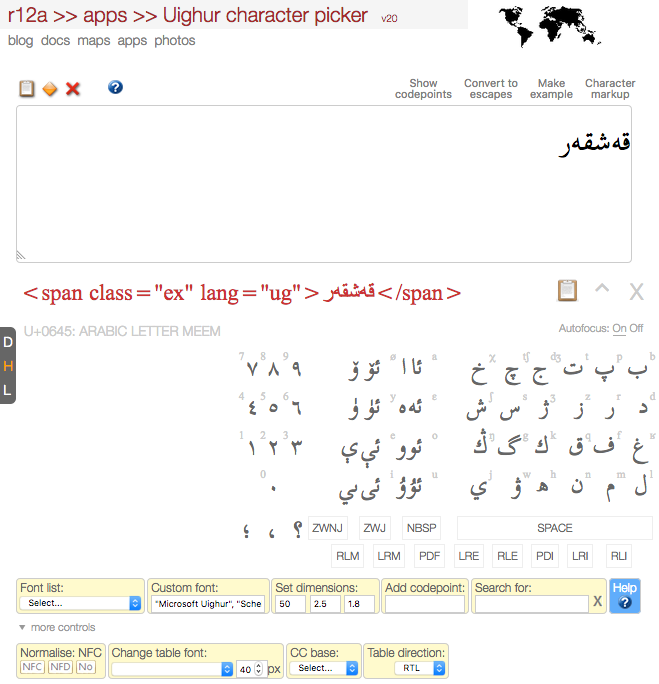
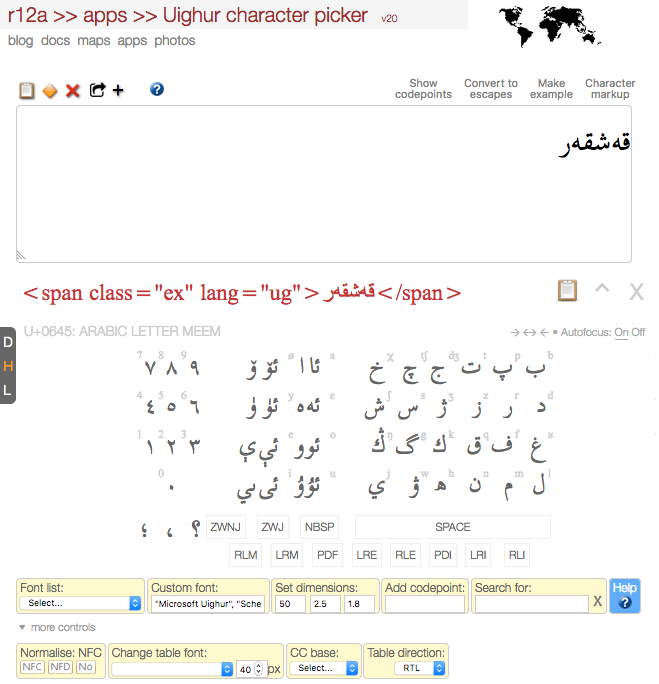
uighur, add ALM; restyle space etc; add base direction switch; add url generator; change example text; add del touches; centre selection area

diff --git a/uighur/index.html b/uighur/index.html
@@ -35,7 +35,8 @@
   <button title="Copy to clipboard (doesn't work on Safari)." onclick="copyToClipboard()">📋</button>
   <button title="Select all the text." onclick="selectAll()">🔶</button>
   <button title="Delete all the text." onclick="deleteAll()">❌</button>
-   <button title="Add sample text." style="font-size: 150%;" onclick="add('ئۇيغۇر تىلى')">+</button>
+  <button title="Generate a URL including text." onclick="makeSharingLink()"><img height="19px" style="margin-left: 3px;" src="../images/share.png"/></button>
+   <button title="Add sample text." style="font-size: 150%;" onclick="add('2. ھەممە ئادەم ھەرقانداق دۆلەتتىن كېتىشكە، جوملىدىن ئۆز دۆلىتىدىن كېتىشكە ھوقۇقلۇق ھەمدە ئۆزىنىڭ دۆلىتىگە قايتىپ كېلىشكە ھوقۇقلۇق.')">+</button>
   <button title="How to use this picker." onClick="help = window.open('help', 'help'); help.focus();"><img alt="help" src="../shared20/help.png"/></button>
   </span>
   
@@ -67,12 +68,19 @@
 </div>
 
 
-<div id="autofocusswitch">Autofocus: 
+
+<div id="autofocusswitch">
+<span title="Set base direction to LTR." onclick="document.getElementById('output').dir='ltr'" class="setDir">→&#xFE0E;</span>
+<span title="Set base direction to Auto." onclick="document.getElementById('output').dir='auto'" class="setDir">↔&#xFE0E;</span> 
+<span title="Set base direction to RTL." onclick="document.getElementById('output').dir='rtl'" class="setDir">←&#xFE0E;</span> 
+ &bull; 
+Autofocus: 
 	<span id="afon" class="on" 
     onclick="switchAutofocus('on')">On</span> 
     <span id="afoff" class="off" 
     onclick="switchAutofocus('off')">Off</span>
     </div>
+
 
 
 <div style="position:relative;">
@@ -134,11 +142,10 @@
 
 
 
-<div id="tables">
+<div id="tables" dir="rtl">
   
   <!-- SHAPE -->
-  <div id="alphabet" class="default"
-dir="rtl"  style="font-family: 'Saysettha OT', 'Lao Sangam MN', Dokchampa, Dhyana, 'Noto Sans Lao', sans-serif; font-size: 32px;">
+  <div id="alphabet" class="default">
     <table id="kbd">
       <tr>
         <td><table id="consonants">
@@ -269,33 +276,24 @@ dir="rtl"  style="font-family: 'Saysettha OT', 'Lao Sangam MN', Dokchampa, Dhyan
               <td>&nbsp;</td></tr>
             </tbody></table>
         </td>
+        <td rowspan="2" id="controlchars" style="padding: 0 10px; text-align:center;"><p><span class="touch" style="margin: 0; padding: 30px 40px;" dir="auto" onClick="add(' ');">SPACE</span></p>
+          <p><span class="touch" dir="auto" onClick="add('\u200D');">ZWJ</span> <span class="touch" dir="auto" onClick="add('\u200C');">ZWNJ</span></p>
+          <p><span class="touch" dir="auto" onClick="add('\u2067');">RLI</span> <span class="touch" dir="auto" onClick="add('\u2066');">LRI</span> <span class="touch" dir="auto" onClick="add('\u2069');">PDI</span></p>
+          <p><span class="touch" dir="auto" onClick="add('\u202B');">RLE</span> <span class="touch"  dir="auto" onClick="add('\202A');">LRE</span> <span class="touch" dir="auto" onClick="add('\u202C');">PDF</span></p>
+          <p><span class="touch" dir="auto" onClick="add('\u200E');">LRM</span> <span class="touch" dir="auto" onClick="add('\u200F');">RLM</span> <span class="touch" dir="auto" onClick="add('\u061C');">ALM</span></p>
+          <p><span class="touch" title="Delete All" style="padding: 5px 20px;" dir="auto" onClick="del();">DEL</span> <span class="touch delAll" style="margin-right: 20px; margin-left:20px;" dir="auto" onClick="deleteAll();">❌</span></p></td>
       </tr>
       <tr>
-        <td colspan="2" style="text-align:center;">
-        <span style="margin: 5px; border: 1px solid #eee; font-family: 'helvetica neue', roboto, calibri, helvetica, sans-serif; font-size: 14px; padding: 5px 100px; text-align: center; text-transform: uppercase; vertical-align:middle; display: inline;" dir=auto onClick="add(' ');">SPACE</span>
-        <span style="margin: 5px; border: 1px solid #eee; font-family: 'helvetica neue', roboto, calibri, helvetica, sans-serif; font-size: 14px; padding: 5px; text-align: center; text-transform: uppercase; vertical-align:middle; display: inline;" dir=auto onClick="add('\u00A0');">NBSP</span>
-        <span style="margin-left: 5px; border: 1px solid #eee; font-family: 'helvetica neue', roboto, calibri, helvetica, sans-serif; font-size: 14px; padding: 5px; text-align: center; text-transform: uppercase; vertical-align:middle; display: inline;" dir=auto onClick="add('\u200D');">ZWJ</span>
-        <span style="margin-left: 2px; border: 1px solid #eee; font-family: 'helvetica neue', roboto, calibri, helvetica, sans-serif; font-size: 14px; padding: 5px; text-align: center; text-transform: uppercase; vertical-align:middle; display: inline;" dir=auto onClick="add('\u200C');">ZWNJ</span>
-        <br/>
-        <span style="margin-left: 5px; border: 1px solid #eee; font-family: 'helvetica neue', roboto, calibri, helvetica, sans-serif; font-size: 14px; padding: 5px; text-align: center; text-transform: uppercase; vertical-align:middle; display: inline;" dir=auto onClick="add('\u2067');">RLI</span>
-        <span style="margin-right: 2px; border: 1px solid #eee; font-family: 'helvetica neue', roboto, calibri, helvetica, sans-serif; font-size: 14px; padding: 5px; text-align: center; text-transform: uppercase; vertical-align:middle; display: inline;" dir=auto onClick="add('\u2066');">LRI</span>
-        <span style="margin-right: 2px; border: 1px solid #eee; font-family: 'helvetica neue', roboto, calibri, helvetica, sans-serif; font-size: 14px; padding: 5px; text-align: center; text-transform: uppercase; vertical-align:middle; display: inline;" dir=auto onClick="add('\u2069');">PDI</span>
-        <span style="margin-right: 2px; border: 1px solid #eee; font-family: 'helvetica neue', roboto, calibri, helvetica, sans-serif; font-size: 14px; padding: 5px; text-align: center; text-transform: uppercase; vertical-align:middle; display: inline;" dir=auto onClick="add('\u202B');">RLE</span>
-        <span style="margin-right: 2px; border: 1px solid #eee; font-family: 'helvetica neue', roboto, calibri, helvetica, sans-serif; font-size: 14px; padding: 5px; text-align: center; text-transform: uppercase; vertical-align:middle; display: inline;" dir=auto onClick="add('\u202A');">LRE</span>
-        <span style="margin-right: 2px; border: 1px solid #eee; font-family: 'helvetica neue', roboto, calibri, helvetica, sans-serif; font-size: 14px; padding: 5px; text-align: center; text-transform: uppercase; vertical-align:middle; display: inline;" dir=auto onClick="add('\u202C');">PDF</span>
-        <span style="margin-right: 2px; border: 1px solid #eee; font-family: 'helvetica neue', roboto, calibri, helvetica, sans-serif; font-size: 14px; padding: 5px; text-align: center; text-transform: uppercase; vertical-align:middle; display: inline;" dir=auto onClick="add('\u200E');">LRM</span>
-        <span style="margin-right: 2px; border: 1px solid #eee; font-family: 'helvetica neue', roboto, calibri, helvetica, sans-serif; font-size: 14px; padding: 5px; text-align: center; text-transform: uppercase; vertical-align:middle; display: inline;" dir=auto onClick="add('\u200F');">RLM</span>
-        </td>
-        <td>
-        <table id=punctuation><tbody>
-        <tr>
-        <td><span class=c>&#x61F;</span></td>
-        <td><span class=c>&#x60C;</span></td>
-        <td><span class=c>&#x61B;</span></td>
-        </tr>
-        </tbody></table>
-        
-        </td>
+        <td colspan="2" style="text-align:center;"><table id=punctuation>
+          <tbody>
+            <tr>
+              <td><span class=c>&#x61F;</span></td>
+              <td><span class=c>&#x60C;</span></td>
+              <td><span class=c>&#x61B;</span></td>
+            </tr>
+          </tbody>
+        </table></td>
+        <td>&nbsp;</td>
       </tr>
       </table>
   </div>
@@ -402,7 +400,7 @@ dir="rtl"  style="font-family: 'Saysettha OT', 'Lao Sangam MN', Dokchampa, Dhyan
 
 
 <div class="control" id="uiTableDirection" style="text-align:right;">Table direction:<br />
-<select onChange="if (this.value == 'rtl') {document.getElementById('alphabet').dir = 'rtl'} else {document.getElementById('alphabet').dir = 'ltr'}; return false;">
+<select onChange="if (this.value == 'rtl') {document.getElementById('tables').dir = 'rtl'} else {document.getElementById('tables').dir = 'ltr'}; return false;">
 <option value="rtl">RTL</option>
 <option value="ltr">LTR</option>
 </select>

diff --git a/uighur/help/index.html b/uighur/help/index.html
@@ -68,8 +68,8 @@ When working on an iPad or similar device, you should turn off<code class="kw" t
   <area shape="rect" coords="12,263,656,318" href="#secondary_output" />
   <area shape="rect" coords="1,323,17,441" href="#input_aids" />
   <area shape="rect" coords="21,319,373,340" href="#character_names" />
-  <area shape="rect" coords="539,317,652,340" href="#autofocus" />
-  <area shape="rect" coords="192,345,659,568" href="#buttons" />
+  <area shape="rect" coords="501,317,652,343" href="#autofocus" />
+  <area shape="rect" coords="110,344,577,567" href="#buttons" />
   <area shape="rect" coords="15,568,641,621" href="#yellow_controls" />
   <area shape="rect" coords="12,622,616,684" href="#more_controls" />
 </map>
@@ -87,12 +87,21 @@ When working on an iPad or similar device, you should turn off<code class="kw" t
 
 
 
+<section id="buttons">
+  <h3 href="#buttons">Selection area</h3>
+  <p><img src="images/selection_area.png" alt=""/></p>
+  <p>Click on characters or buttons in this area to add them to the  text area above.</p>
+  <p>Characters are arranged based on the use of the script in order to speed up picking.     Consonants are to one side, and vowels are to the other side. They are arranged in alphabetic order, within those divisions. Numbers are available in a separate block.</p>
+  <p>By default, the table is right-aligned and flows from right to left, however it is possible to flip it using more <code class="kw" translate="no">controls/table direction</code>.&nbsp;</p>
+</section>
+
+
+
 <section id="top_controls">
   <h3 href="#top_controls">Controls above the text area</h3>
       <p><img src="images/controls_above.png" alt=""/></p>
       <p>Controls above the input box allow you to run various operations on the text in the box. <strong>Most of them work on what you have selected</strong> within the box, or the whole box if nothing is selected.</p>
-      
-      <p><b class="leadin">Copy, select, delete (<img src="images/copy_etc.png" style="vertical-align:middle;" alt=""/>).</b>  The icons on the left above the input box allow you to copy the text to the clipboard, select the text or delete the text, respectively. </p>
+      <p><b class="leadin">Copy, select, delete, etc. (<img src="images/copy_etc.png" style="vertical-align:middle;" alt=""/>).</b> The icons on the left above the input box allow you (listing them from left to right) to copy the text to the clipboard, select the text, or delete it, generate a URL to share with others that will reproduce for them what you see in the text box, add some sample text to the text area, and open this help file. </p>
       <p><b class="leadin">Show codepoints.</b> Produces a list of the Unicode code points in the input box. You can usually follow a link from a code point item to more detailed information about that character.</p>
       <p><b class="leadin">Convert to escapes.</b> Opens a new window for the converter app, which shows various different ways of representing the text in the input box using escapes.</p>
     <p><b class="leadin">Make example.</b> This may be useful to speed up the creation of examples. You can create an example with four parts, delimited by /, in the following order: [1] Uighur text, [2] IPA transcription, [3] other transcription, [4] meaning. You don't need to add all four elements, but if you want to skip one in the middle of the sequence, use //.</p>
@@ -121,9 +130,10 @@ When working on an iPad or similar device, you should turn off<code class="kw" t
 </section>
 
 <section id="autofocus">
-  <h3 href="#autofocus">Autofocus</h3>
+  <h3 href="#autofocus">Autofocus &amp; baseline</h3>
   <p style="text-align:right;"><img src="images/autofocus.png" alt=""/></p>
   <p>When working on an iPad or similar device, you should set this to <samp>Off</samp>. This prevents the keyboard popping up after you input every character.</p>
+  <p>The characters  → ↔ ← allow you to set the base direction of the text area to LTR, auto, and RTL, respectively.</p>
 </section>
 
 <section id="input_aids">
@@ -136,13 +146,8 @@ When working on an iPad or similar device, you should turn off<code class="kw" t
     <p> Each orange key below the table represents a significant part of the shape of two or more characters; when you click on the keys, characters and combinations of characters that incorporate that shape are highlighted above. Click on these characters to add them to the output. The shapes grouped under 'Other' are a mixed bag of characters that didn't fit elsewhere.</p>
     <p><b class="leadin">Latin characters.</b> Displays a panel of lowercase Latin characters you are likely to need for  transcription.</p>
 </section>
-<section id="buttons">
-  <h3 href="#buttons">Selection area</h3>
-  <p><img src="images/selection_area.png" alt=""/></p>
-  <p>Click on characters or buttons in this area to add them to the  text area above.</p>
-  <p>Characters are arranged based on the use of the script in order to speed up picking.     Consonants are to one side, and vowels are to the other side. They are arranged in alphabetic order, within those divisions. Numbers are available in a separate block.</p>
-  <p>By default, the table is right-aligned and flows from right to left, however it is possible to flip it using more <code class="kw" translate="no">controls/table direction</code>.&nbsp;</p>
-</section>
+
+
 <section id="yellow_controls">
   <h3 href="#yellow_controls">Controls on the yellow background</h3>
     <p><img src="images/yellow_controls.png" alt=""/></p>

diff --git a/uighur/localstyle.css b/uighur/localstyle.css
@@ -19,7 +19,7 @@
 	}
 	
 #kbd { 	
-	margin-left: 0; 
+	margin: auto; 
 	}
 #kbd table {
 	margin:0;
@@ -57,6 +57,13 @@
 	min-width: 30px;
 	}
 
+
+#alphabet #controlchars {
+	padding: 0 10px; text-align:center;
+	}
+#alphabet #controlchars p {
+	margin: 5px 0;
+	}
 
 
 
